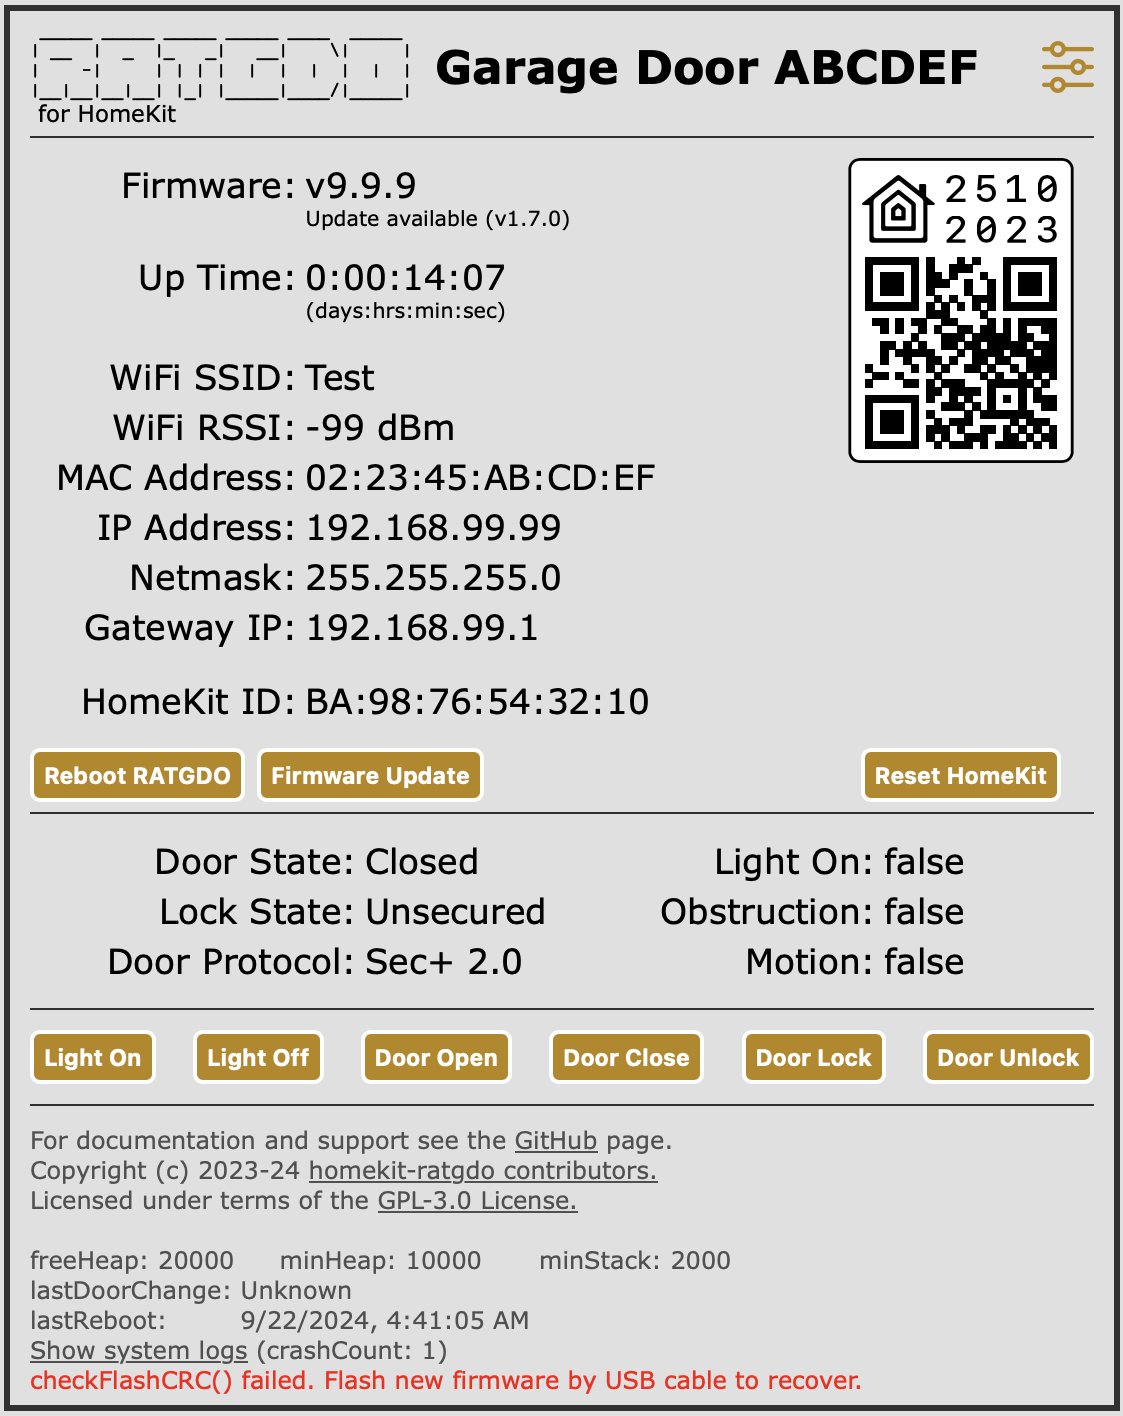
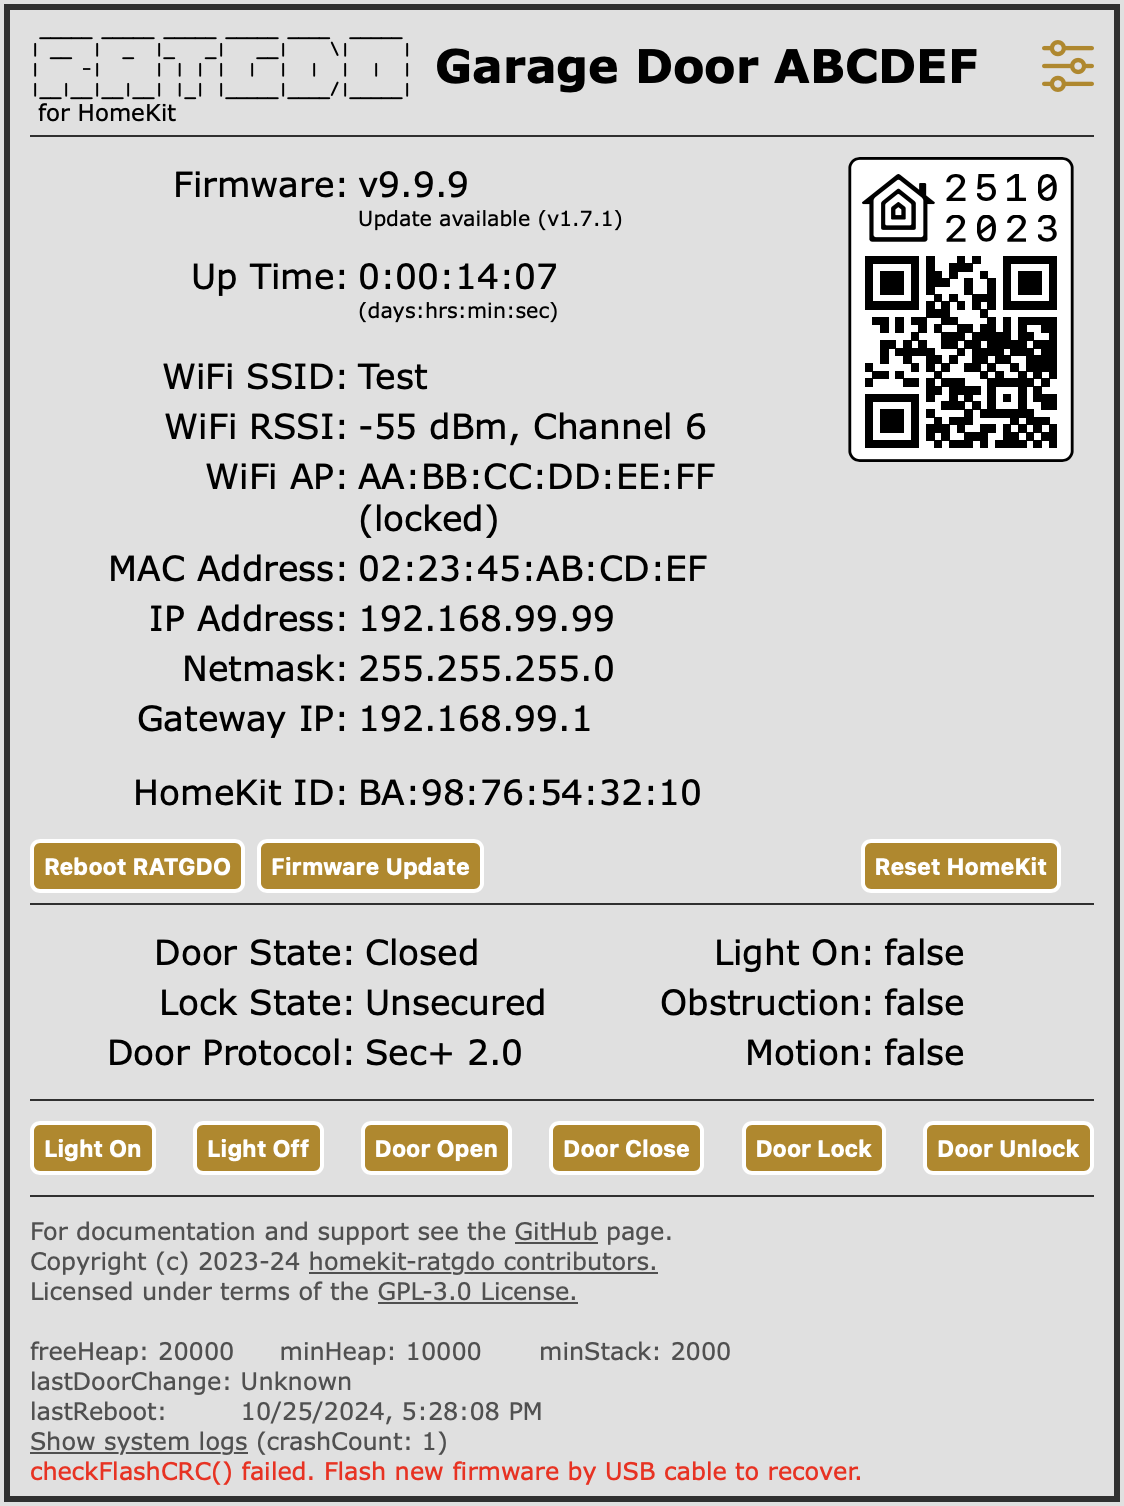
Add WiFi channel, access point, and BSSID lock info to web page and readme

diff --git a/src/www/index.html b/src/www/index.html
@@ -45,46 +45,50 @@
         <div class="serverstatus">
           <table>
             <tr>
-              <td style="text-align: right; width: 40%">Firmware:</td>
+              <td style="width: 40%">Firmware:</td>
               <td><span id="firmwareVersion"></span><br><sup style="font-size: 0.6em;"><span
                     id="newversion"></span><span id="dotdot1"></span></sup></td>
             </tr>
             <tr>
-              <td style="text-align: right; white-space: pre;">Up Time:</td>
+              <td style="white-space: pre;">Up Time:</td>
               <td><span id="upTime"></span><br><sup style="font-size: 0.6em;">(days:hrs:min:sec)</sup></td>
             </tr>
             <tr style="height: 2px">
               <td colspan="2"></td>
             </tr>
             <tr>
-              <td style="text-align: right;">WiFi SSID:</td>
+              <td>WiFi SSID:</td>
               <td id="wifiSSID"></td>
             </tr>
             <tr>
-              <td style="text-align: right;">WiFi RSSI:</td>
+              <td>WiFi RSSI:</td>
               <td id="wifiRSSI"></td>
             </tr>
             <tr>
-              <td style="text-align: right;">MAC Address:</td>
+              <td>WiFi AP:</td>
+              <td id="wifiBSSID"></td>
+            </tr>
+            <tr>
+              <td>MAC Address:</td>
               <td id="macAddress"></td>
             </tr>
             <tr>
-              <td style="text-align: right;">IP Address:</td>
+              <td>IP Address:</td>
               <td id="localIP"></td>
             </tr>
             <tr>
-              <td style="text-align: right;">Netmask:</td>
+              <td>Netmask:</td>
               <td id="subnetMask"></td>
             </tr>
             <tr>
-              <td style="text-align: right;">Gateway IP:</td>
+              <td>Gateway IP:</td>
               <td id="gatewayIP"></td>
             </tr>
             <tr style="height: 10px">
               <td colspan="2"></td>
             </tr>
             <tr>
-              <td style="text-align: right;">HomeKit ID:</td>
+              <td>HomeKit ID:</td>
               <td id="accessoryID"></td>
             </tr>
           </table>
@@ -107,21 +111,21 @@
         <div class="fullwidth">
           <table>
             <tr>
-              <td style="width: 35%; text-align: right;">Door State:</td>
+              <td style="width: 35%;">Door State:</td>
               <td style="width: 20%;" id="garageDoorState"></td>
-              <td style="width: 35%; text-align: right;">Light On:</td>
+              <td style="width: 35%;">Light On:</td>
               <td style="width: 10%;" id="garageLightOn"></td>
             </tr>
             <tr>
-              <td style="text-align: right;">Lock State:</td>
+              <td>Lock State:</td>
               <td id="garageLockState"></td>
-              <td style="text-align: right;">Obstruction:</td>
+              <td>Obstruction:</td>
               <td id="garageObstructed"></td>
             </tr>
             <tr>
-              <td style="text-align: right;">Door Protocol:</td>
+              <td>Door Protocol:</td>
               <td id="GDOSecurityType"></td>
-              <td style="text-align: right;">Motion:</td>
+              <td>Motion:</td>
               <td id="garageMotion"></td>
             </tr>
           </table>

diff --git a/src/www/style.css b/src/www/style.css
@@ -103,6 +103,10 @@ div.serverstatus {
     width: 75%;
     overflow: hidden;
     position: relative;
+
+    td:nth-child(1) {
+        text-align: right;
+    }
 }
 
 div.qrcode {
@@ -121,6 +125,10 @@ div.fullwidth {
     border-bottom-width: 1px;
     padding-left: 0px;
     padding-right: 0px;
+
+    td:nth-child(2n - 1) {
+        text-align: right;
+    }
 }
 
 div.header {

diff --git a/src/web.cpp b/src/web.cpp
@@ -126,36 +126,36 @@ const char *http_methods[] PROGMEM = {"HTTP_ANY", "HTTP_GET", "HTTP_HEAD", "HTTP
 const char softAPhttpPreamble[] PROGMEM = "HTTP/1.1 200 OK\nContent-Type: text/html\nCache-Control: no-cache, no-store\nConnection: close\n\n<!DOCTYPE html>";
 const char softAPstyle[] PROGMEM = R"(<style>
 .adv {
-    display: none;
+ display: none;
 }
 td,th {
-    text-align: left;
+ text-align: left;
 }
 th:nth-child(1n+4), td:nth-child(1n+4) {
-    display: none;
-    text-align: right;
+ display: none;
+ text-align: right;
 }
 </style>)";
 const char softAPscript[] PROGMEM = R"(<script>
 const warnTxt = 'Selecting SSID in advanced mode locks the device to a specific WiFi ' +
-    'access point by its unique hardware BSSID. If that access point goes offline, or you replace ' +
-    'it, then the device will NOT connect to WiFi.';
+ 'access point by its unique hardware BSSID. If that access point goes offline, or you replace ' +
+ 'it, then the device will NOT connect to WiFi.';
 const setTxt = 'Set SSID and password, are you sure?';
 function shAdv(checked) {
-    Array.from(document.getElementsByClassName('adv')).forEach((elem) => {
-        elem.style.display = checked ? 'table-row' : 'none';
-    });
-    Array.from(document.querySelectorAll('th:nth-child(1n+4), td:nth-child(1n+4)')).forEach((elem) => {
-        elem.style.display = checked ? 'table-cell' : 'none';
-    });
-    document.getElementById('warn').innerHTML = checked ? '<p><b>WARNING: </b>' + warnTxt + '</p>' : '';
+ Array.from(document.getElementsByClassName('adv')).forEach((elem) => {
+  elem.style.display = checked ? 'table-row' : 'none';
+ });
+ Array.from(document.querySelectorAll('th:nth-child(1n+4), td:nth-child(1n+4)')).forEach((elem) => {
+  elem.style.display = checked ? 'table-cell' : 'none';
+ });
+ document.getElementById('warn').innerHTML = checked ? '<p><b>WARNING: </b>' + warnTxt + '</p>' : '';
 }
 function confirmAdv() {
-    if (document.getElementById('adv').checked) {
-        return confirm('WARNING: ' + warnTxt + '\n\n' + setTxt);
-    } else {
-        return confirm(setTxt);
-    }
+ if (document.getElementById('adv').checked) {
+  return confirm('WARNING: ' + warnTxt + '\n\n' + setTxt);
+ } else {
+  return confirm(setTxt);
+ }
 }
 </script>)";
 const char softAPtableHead[] PROGMEM = R"(
@@ -614,7 +614,8 @@ void handle_status()
     ADD_STR(json, "nameserverIP", nameserverIP);
     ADD_STR(json, "macAddress", macAddress);
     ADD_STR(json, "wifiSSID", wifiSSID);
-    ADD_STR(json, "wifiRSSI", (std::to_string(WiFi.RSSI()) + " dBm").c_str());
+    ADD_STR(json, "wifiRSSI", (std::to_string(WiFi.RSSI()) + " dBm, Channel " + std::to_string(WiFi.channel())).c_str());
+    ADD_STR(json, "wifiBSSID", (WiFi.BSSIDstr() + (wifiConf.bssid_set ? " (locked)" : "")).c_str());
     ADD_INT(json, "GDOSecurityType", userConfig->gdoSecurityType);
     ADD_STR(json, "garageDoorState", garage_door.active ? DOOR_STATE(garage_door.current_state) : DOOR_STATE(255));
     ADD_STR(json, "garageLockState", LOCK_STATE(garage_door.current_lock));
@@ -987,7 +988,7 @@ void SSEheartbeat(SSESubscription *s)
         ADD_INT(json, "freeHeap", free_heap);
         ADD_INT(json, "minHeap", min_heap);
         ADD_INT(json, "minStack", ESP.getFreeContStack());
-        ADD_STR(json, "wifiRSSI", (std::to_string(WiFi.RSSI()) + " dBm").c_str());
+        ADD_STR(json, "wifiRSSI", (std::to_string(WiFi.RSSI()) + " dBm, Channel " + std::to_string(WiFi.channel())).c_str());
         ADD_BOOL(json, "checkFlashCRC", flashCRC);
         END_JSON(json);
         REMOVE_NL(json);
@@ -1501,13 +1502,13 @@ void handle_setssid()
     {
         RINFO("Requested WiFi SSID: %s (%d) at AP: %02x:%02x:%02x:%02x:%02x:%02x",
               ssid, net, wifiNet.bssid[0], wifiNet.bssid[1], wifiNet.bssid[2], wifiNet.bssid[3], wifiNet.bssid[4], wifiNet.bssid[5]);
-        snprintf_P(json, JSON_BUFFER_SIZE, PSTR("Setting SSID to: %s at Access Point: %02x:%02x:%02x:%02x:%02x:%02x\nRATGDO rebooting."),
+        snprintf_P(json, JSON_BUFFER_SIZE, PSTR("Setting SSID to: %s locked to Access Point: %02x:%02x:%02x:%02x:%02x:%02x\nRATGDO rebooting.\nPlease wait 30 seconds and connect to RATGDO on new network."),
                    ssid, wifiNet.bssid[0], wifiNet.bssid[1], wifiNet.bssid[2], wifiNet.bssid[3], wifiNet.bssid[4], wifiNet.bssid[5]);
     }
     else
     {
         RINFO("Requested WiFi SSID: %s (%d)", ssid);
-        snprintf_P(json, JSON_BUFFER_SIZE, PSTR("Setting SSID to: %s\nRATGDO rebooting."), ssid);
+        snprintf_P(json, JSON_BUFFER_SIZE, PSTR("Setting SSID to: %s\nRATGDO rebooting.\nPlease wait 30 seconds and connect to RATGDO on new network."), ssid);
     }
     server.client().setNoDelay(true);
     server.send_P(200, type_txt, json);
@@ -1536,7 +1537,7 @@ void handle_setssid()
         RINFO("WiFi Failed to connect to SSID: %s", ssid);
         if (connected)
         {
-            RINFO("Resetting WiFi to previous SSID: %s", previousSSID.c_str());
+            RINFO("Resetting WiFi to previous SSID: %s, removing any Access Point BSSID lock", previousSSID.c_str());
             connect_wifi(previousSSID.c_str(), previousPSK.c_str());
         }
     }

diff --git a/src/wifi.cpp b/src/wifi.cpp
@@ -35,6 +35,7 @@ bool wifiNetsCmp(wifiNet_t a, wifiNet_t b)
     return (a.ssid < b.ssid) || ((a.ssid == b.ssid) && (a.rssi > b.rssi));
 }
 std::multiset<wifiNet_t, decltype(&wifiNetsCmp)> wifiNets(&wifiNetsCmp);
+station_config wifiConf;
 
 #define MAX_ATTEMPTS_WIFI_CONNECTION 30
 uint8_t x_buffer[128];
@@ -182,6 +183,16 @@ void wifi_connect()
     gotIPHandler = WiFi.onStationModeGotIP(&onGotIP);
     dhcpTimeoutHandler = WiFi.onStationModeDHCPTimeout(&onDHCPTimeout);
 
+    wifi_station_get_config_default(&wifiConf);
+    if (wifiConf.bssid_set)
+    {
+        RINFO("Connecting to SSID: %s locked to Access Point: %02x:%02x:%02x:%02x:%02x:%02x, ", wifiConf.ssid,
+              wifiConf.bssid[0], wifiConf.bssid[1], wifiConf.bssid[2], wifiConf.bssid[3], wifiConf.bssid[4], wifiConf.bssid[5]);
+    }
+    else
+    {
+        RINFO("Connecting to SSID: %s", wifiConf.ssid);
+    }
     RINFO("Starting WiFi connecting in background");
     wifiConnectTimeout = millis() + 30000;
     WiFi.begin(); // use credentials stored in flash

diff --git a/src/wifi.h b/src/wifi.h
@@ -23,5 +23,6 @@ typedef struct
     uint8_t bssid[6];
 } wifiNet_t;
 extern std::multiset<wifiNet_t, bool (*)(wifiNet_t, wifiNet_t)> wifiNets;
+extern station_config wifiConf;
 
 #endif /* WIFI_INFO_H_ */

diff --git a/README.md b/README.md
@@ -36,6 +36,9 @@ For each of the following steps, use the [online browser-based flash tool](https
 
 That's it!
 
+> [!IMPORTANT]
+> If you experience very slow or poor connection accessing the ratgdo device web page then try moving the device further away from the garage door opener.  Several users have reported that this can improve reliability of the connection. We do not know why this is the case but may suggest some RF interference between the door opener and the ratgdo device.
+
 ## Using ratgdo Webpage
 
 Before pairing to HomeKit / Apple Home you should open up the ratgdo webpage and configure basic settings.  Simply enter the local IP address of the ratgdo device to access the settings page to set a more appropriate device name and check that your door protocol is correct.
@@ -53,13 +56,16 @@ If you ratgdo device is not yet paired to HomeKit then a QR code is displayed fo
 
 This section also displays the current firmware version, with a statement on whether an update is available, the uptime of the device in days/hours/minutes/seconds and WiFi connection status.
 
+> [!NOTE]
+> If the word _locked_ appears after the WiFi AP identifier then the ratgdo device will _only_ connect to that WiFi Access Point. See warning in the [Set WiFi SSID](#set-wifi-ssid) section below.
+
 ### Garage door opener status
 
 Status of the garage door along with action buttons are shown in this section.  The status values are updated in real time whether triggered by one of the action buttons or an external action (motion in the garage, someone using a door remote).
 
 ### Information section
 
-The final section provides useful links to documentation and legal/license information.  At the very bottom of the page is diagnostic information, see Troubleshooting section below.
+The final section provides useful links to documentation and legal/license information.  At the very bottom of the page is diagnostic information, see [Troubleshooting](#troubleshooting) section below.
 
 ### Authentication
 
@@ -106,10 +112,6 @@ Motion can also be triggered by the obstruction sensor and by pressing the door,
 
 Changing this setting will cause a reboot only if changing from no motion sensor to any selection that triggers motion, or vis versa.
 
-### Receive Logs
-
-This option is not available on mobile devices. On a desktop browser all server firmware logs can be displayed in the javascript console log. On some browsers you may need to enable developer mode before you can open the javascript console.
-
 ### Syslog
 
 This setting allows you to send the ratgdo logs to a syslog server.  Enter the IP address of your syslog server.  Uses UDP port 514 and logs to the LOCAL0 Facility.
@@ -120,6 +122,9 @@ This setting allows you to send the ratgdo logs to a syslog server.  Enter the I
 ### Door Protocol
 
 Set the protocol for your model of garage door opener.  This defaults to Security+ 2.0 and you should only change this if necessary.  Note that the changing the door protocol also resets the door opener rolling codes and whether there is a motion sensor (this will be automatically detected after reset).
+
+> [!NOTE]
+> This firmware does not currently support _dry contact_ door openers.  If you have one of these and are able to assist the maintainers add support, please contact us or submit a Pull Request.
 
 ### WiFi Version
 
@@ -160,9 +165,9 @@ This button resets the Sec+ 2.0 rolling codes and whether your door opener has a
 
 This button will restart the ratgdo in soft Access Point (AP) mode from where you can set a new WiFi network SSID and password.  You can connect to the ratgdo either from the existing WiFi network and IP address or by connecting your laptop or mobile device to the ratgdo's WiFi SSID and pointing your browser to IP address 192.168.4.1.  The SSID created is based on the device name, e.g. _Garage-Door-ABCDEF._
 
-If you are unable to connect to your ratgdo, or the old wifi network is not available, you can force the device into soft Access Point mode by rapidly pressing the wall panel light button 5 times within 3 second.  The ratgdo will respond by flashing the lights for 3 more seconds before rebooting into AP mode.
+If you are unable to connect to your ratgdo, or the old WiFi network is not available, you can force the device into soft Access Point mode by rapidly pressing the wall panel light button 5 times within 3 second.  The ratgdo will respond by flashing the lights for 3 more seconds before rebooting into AP mode.  Allow 15 to 20 seconds for the ratgdo to boot.
 
-If you are preparing to move the ratgdo to a new location then after the device has booted into soft AP mode you can disconnect it (within 10 minutes) and when it first boots in the new location it will start up in soft AP mode. In soft AP mode the ratgdo does not connect to the garage door opener or HomeKit.
+If you are preparing to move the ratgdo to a new location then, after the device has booted into soft AP mode, you can disconnect it (within 10 minutes). When it first boots in the new location it will start up in soft AP mode. In soft AP mode the ratgdo does not connect to the garage door opener or HomeKit.
 
 On changing the WiFi network SSID you will have to un-pair and re-pair the ratgdo to Apple Home.
 
@@ -170,18 +175,19 @@ On changing the WiFi network SSID you will have to un-pair and re-pair the ratgd
 > If you do not set a new SSID and password within 10 minutes of booting into soft AP mode then the ratgdo will reboot as normal and connect to the previously set WiFi network SSID.
 
 > [!NOTE]
-> On changing the SSID in soft AP mode the ratgdo attempts to connect to the new WiFi network.  If that fails then the ratgdo will reset to the old SSID and password and reboot.
+> On changing the SSID in soft AP mode the ratgdo attempts to connect to the new WiFi network.  If that fails, then the ratgdo will reset to the old SSID and password, remove any Access Point lock, and reboot.
 
 > [!WARNING]
-> Soft AP has an _advanced_ mode. If you select this then the full list of discovered networks are shown, including the same network SSID broadcast by multiple access points. Selecting a WiFi network in advanced mode locks the device to a specific WiFi access point by its __unique hardware BSSID__. If that access point goes offline, or you replace it, then the device will __NOT connect__ to WiFi.
-> Use advanced mode with extreme caution.
+> The soft AP page has an _advanced_ mode. If you select this then the full list of discovered networks are shown, including same network SSID's broadcast by multiple access points. Selecting a WiFi network in advanced mode locks the device to a specific WiFi access point by its __unique hardware BSSID__. If that access point goes offline, or you replace it, then the device will __NOT connect__ to WiFi. __Use advanced mode with extreme caution__.
 
 ## How do I upgrade?
 
 Over-the-Air (OTA) updates are supported, either directly from GitHub or by selecting a firmware binary file on your computer. Follow the steps below to update:
 
 * Navigate to your ratgdo's ip address where you will see the devices webpage, Click `Firmware Update`
-  > When you open Firmware Update the ratgdo device performs a flash memory CRC check. If this fails a warning message is shown. Please see the Flash CRC Errors section below before proceeding.
+
+> [!NOTE]
+> When you open Firmware Update the ratgdo device performs a flash memory CRC check. If this fails a warning message is shown. Please see the [Flash CRC Errors](#flash-crc-errors) section below before proceeding.
 
 [![ota](docs/ota/ota.png)](#ota)
 * Update from Github
@@ -200,15 +206,14 @@ Automatic updates are not supported (and probably will never be), so set a remin
 
 ## Upgrade failures
 
-If the OTA firmware update fails the following message will be displayed and you are given the option to reboot or cancel. If you reboot, the device will reload the same firmware as previously installed.  If you cancel then the device remains open, but the HomeKit service will be shutdown.  This may be helpful for debuging, see Troubleshooting section below.
+If the OTA firmware update fails the following message will be displayed and you are given the option to reboot or cancel. If you reboot, the device will reload the same firmware as previously installed.  If you cancel then the device remains open, but the HomeKit service will be shutdown.  This may be helpful for debuging, see [Troubleshooting](#troubleshooting) section below.
 
 [![updatefail](docs/ota/updatefail.png)](#updatefail)
 
 ## Flash CRC Errors
 
-When requesting a reboot or displaying the firmware update dialog, the integrity of the ratgdo device is checked by running a CRC check on the flash memory. A CRC error is a strong indicator of a problem in the ratgdo firmware and it is highly likely that the device will fail to reboot.
+When displaying the firmware update dialog, the integrity of the ratgdo device is checked by running a CRC check on the flash memory. A CRC error is a strong indicator of a problem in the ratgdo firmware and it is highly likely that the device will fail to reboot.
 
-[![rebootcrc](docs/webpage/rebootcrc.png)](#rebootcrc)
 [![updatecrc](docs/ota/updatecrc.png)](#updatecrc)
 
 If you encounter a flash CRC error then please [open an issue](https://github.com/ratgdo/homekit-ratgdo/issues) on GitHub so that developers can assist with debugging.  Recovering from a flash CRC error will require flashing new firmware using a USB cable, but it may be possible to capture valuable information using esptool to assist with debugging.
@@ -364,7 +369,7 @@ The footer of the webpage displays useful information that can help project cont
 
 In addition the last reboot date and time is reported (calculated by subtracting up-time from current time).
 
-The _lastDoorChange_ will show the date and time that the door was last opened or closed.  This is not saved across reboots, so it will show as unknown after a reboot.
+The _lastDoorChange_ will show the date and time that the door was last opened or closed.
 
 ### Show system logs
 

diff --git a/CHANGELOG.md b/CHANGELOG.md
@@ -6,19 +6,20 @@ All notable changes to `homekit-ratgdo` will be documented in this file. This pr
 
 ### What's Changed
 
-* New feature... allow setting WiFi SSID (<https://github.com/ratgdo/homekit-ratgdo/issues/224>).
-* New feature... enable IRAM heap to increase available memory.
+* New feature... add soft AP mode to allow setting WiFi SSID (<https://github.com/ratgdo/homekit-ratgdo/issues/224>).
+* New feature... enable IRAM heap to increase available memory, expected to improve reliability.
 * New feature... move all user config settings into single file, improves boot time by ~13 seconds (<https://github.com/ratgdo/homekit-ratgdo/issues/241>).
 * New feature... add support for logging to a syslog server.
-* Change... Reboot countdown times changed from 30 seconds to 15 seconds
+* Change... Reboot countdown timer changed from 30 seconds to 15 seconds
+* Change... Remove option to receive server logs to JavaScript console, replaced by syslog and system logs page.
 * Bugfix... ensure that network hostname is RFC952 compliant (e.g. no spaces).
-* Bugfix... Possible fix to <https://github.com/ratgdo/homekit-ratgdo/issues/215> by modifying HomeKit server malloc().
+* Bugfix... Possible fix to <https://github.com/ratgdo/homekit-ratgdo/issues/215> by modifying HomeKit server malloc() from local to global.
 * Bugfix... Possible fix to <https://github.com/ratgdo/homekit-ratgdo/issues/211> and <https://github.com/ratgdo/homekit-ratgdo/issues/223> as we enable IRAM heap.
 
 ### Known Issues
 
-* Same as v1.7.0
-* Expect fewer crashes inside the MDNSresponder code resulting from enabling IRAM heap.
+* Occasional unexplained HomeKit notification that garage door is unlocked. Tracked in <https://github.com/ratgdo/homekit-ratgdo/issues/233>
+* Occasional failure to connect to WiFi. Tracked in <https://github.com/ratgdo/homekit-ratgdo/issues/217>
 
 ## v1.7.1 (2024-09-23)
 
